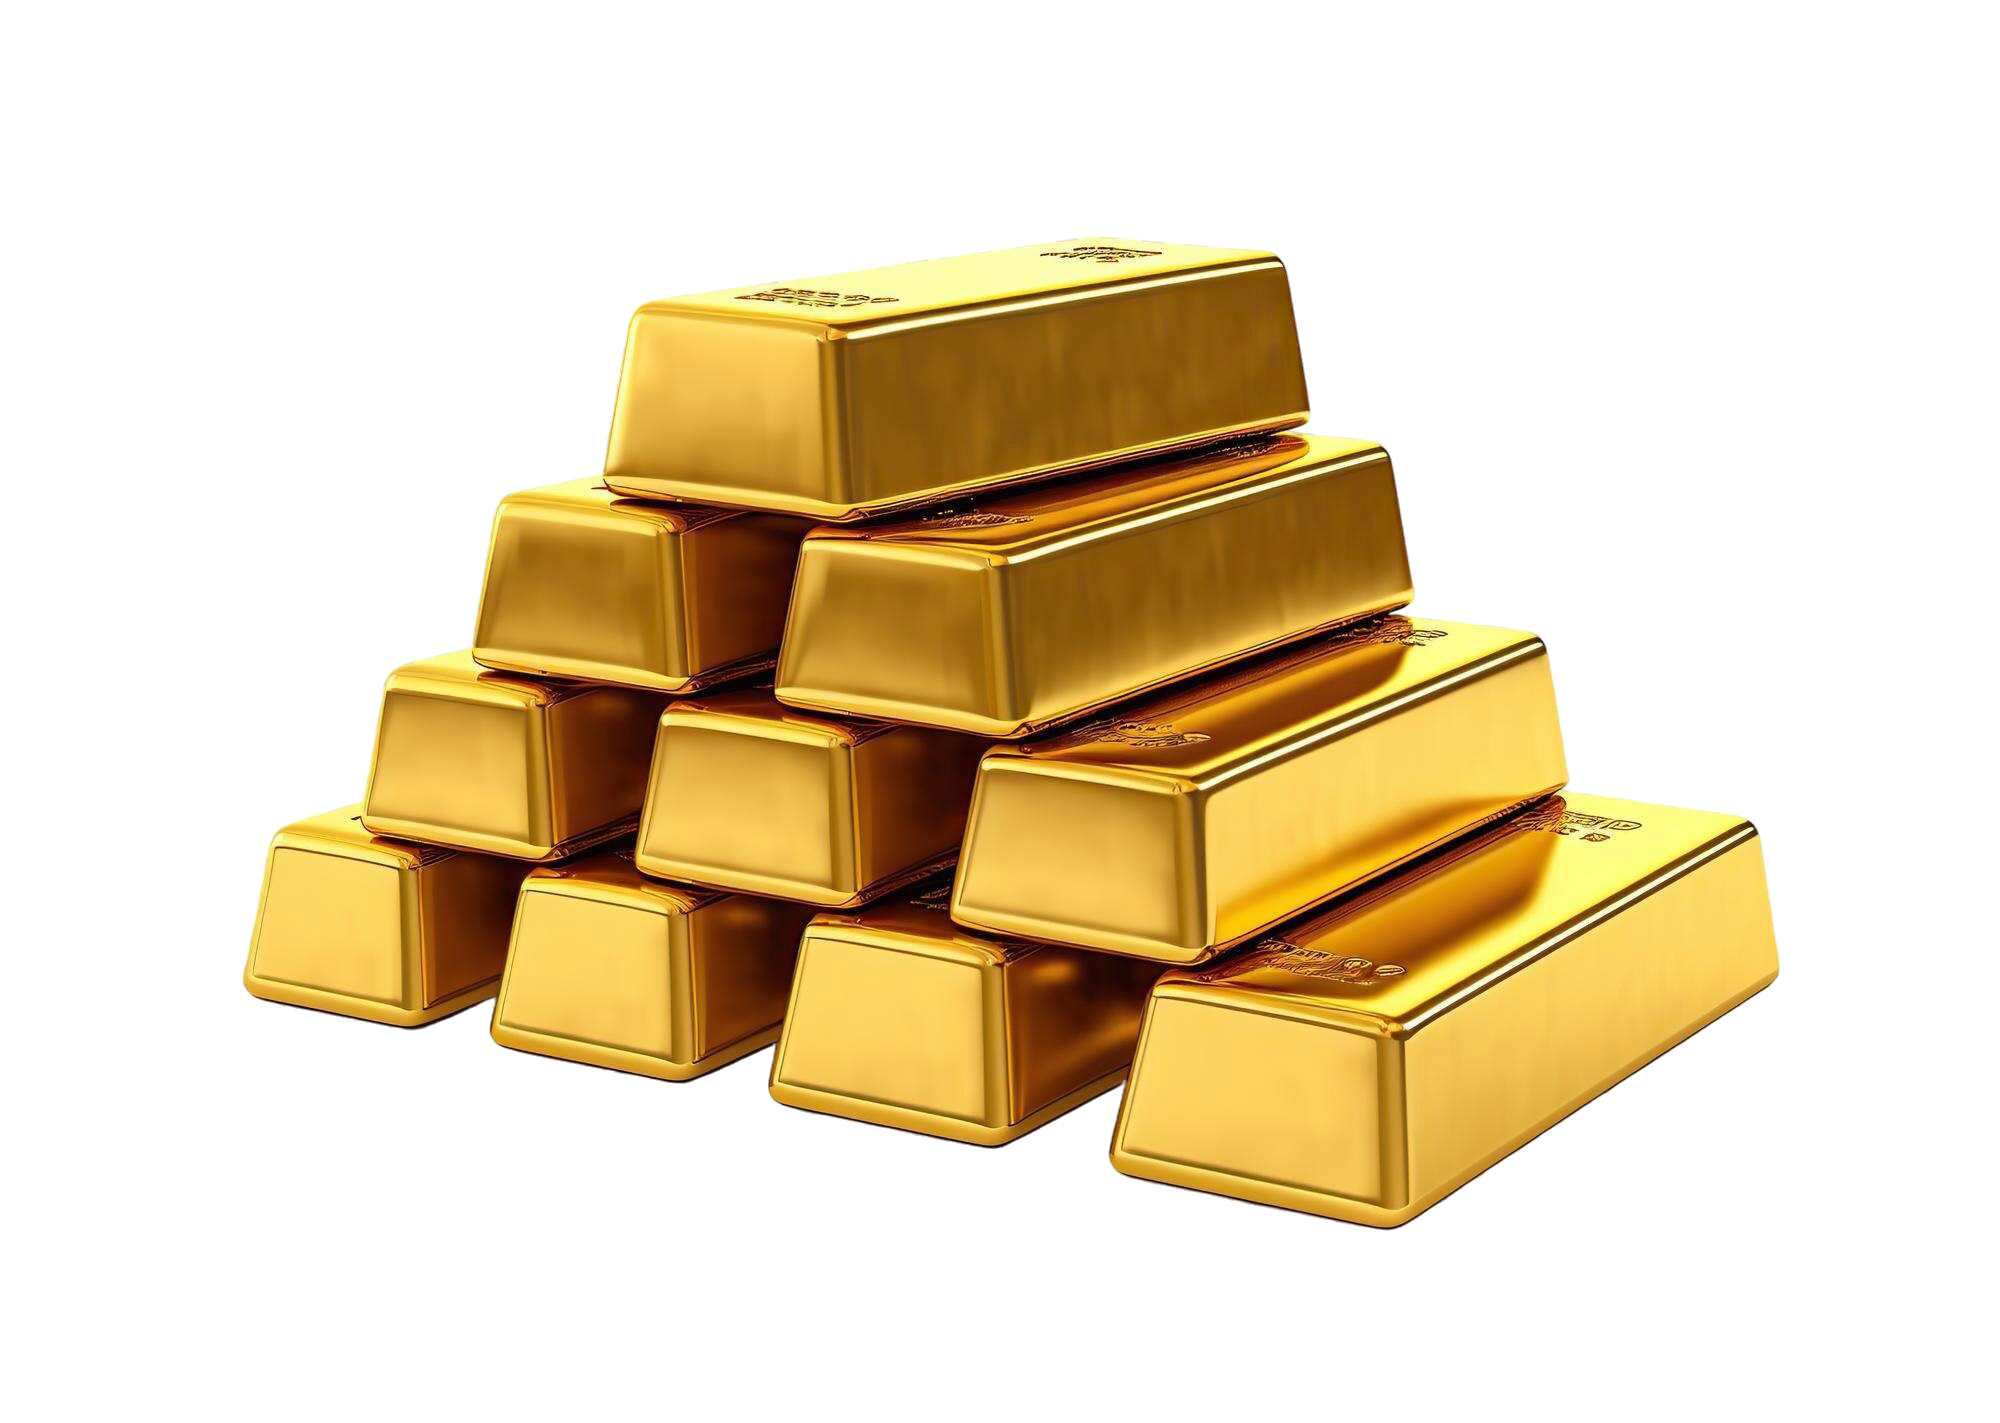
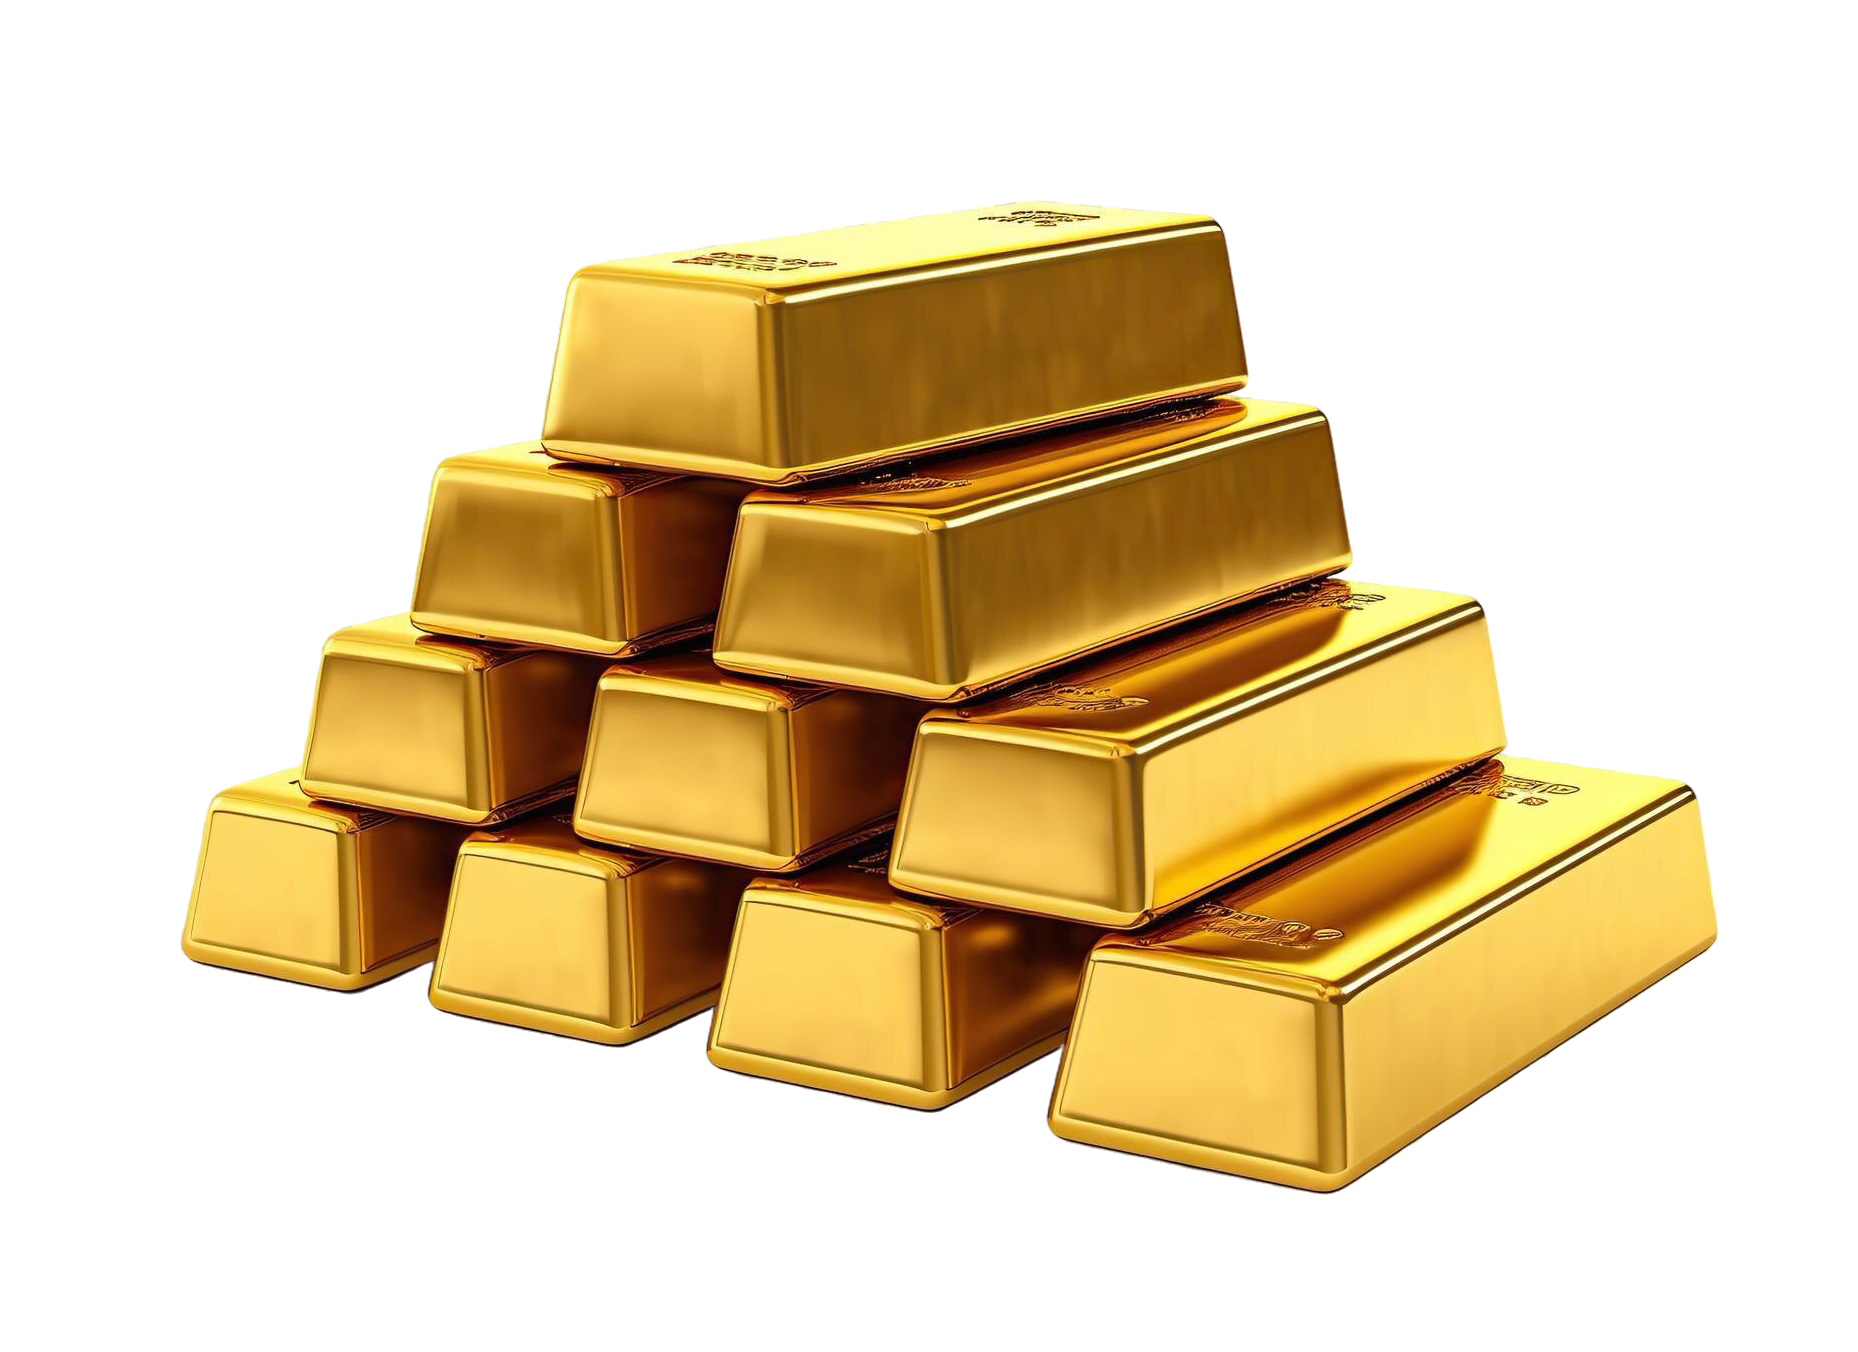
feat: update AboutSection with read more image

Changed region(s): [[0.0936, 0.1243, 0.9365, 0.9009]]

diff --git a/src/pages/Contact.jsx b/src/pages/Contact.jsx
@@ -1,5 +1,8 @@
 import ContactSection from '../components/ContactSection'
 
+const mapEmbedUrl =
+  'https://www.google.com/maps/embed?pb=!1m18!1m12!1m3!1d4734.498102929008!2d114.1746715!3d22.2981888!2m3!1f0!2f0!3f0!3m2!1i1024!2i768!4f13.1!3m3!1m2!1s0x340400ee1480419d%3A0x53c93486db514b9e!2s8%20Hart%20Ave%2C%20Tsim%20Sha%20Tsui%2C%20Hong%20Kong!5e1!3m2!1sen!2sae!4v1781270980621!5m2!1sen!2sae'
+
 function Contact() {
   return (
     <main style={{ backgroundColor: '#001935', color: '#fff' }}>
@@ -22,12 +25,44 @@ function Contact() {
       <ContactSection />
 
       <section style={{ padding: '0 clamp(1rem, 4vw, 1.5rem) 3rem' }}>
-        <div className="page-container" style={{ maxWidth: '1520px', margin: '0 auto', border: '1px solid rgba(201,168,76,0.25)', backgroundColor: 'rgba(16,31,72,0.35)', minHeight: '280px', display: 'flex', flexDirection: 'column', alignItems: 'center', justifyContent: 'center', textAlign: 'center', padding: '1.25rem' }}>
-          <i className="fas fa-map-location-dot" style={{ color: '#C9A84C', fontSize: '2rem' }} />
-          <h2 style={{ margin: '0.7rem 0 0', fontFamily: "'Cormorant Garamond', serif", fontSize: '2rem', fontWeight: 500 }}>Map Location</h2>
-          <p style={{ margin: '0.4rem 0 0', color: 'rgba(255,255,255,0.72)', fontFamily: "'Montserrat', sans-serif", fontSize: '0.86rem' }}>
-            Unit F, 26/F, 8 Hart Avenue, TST, Kowloon, Hong Kong
-          </p>
+        <div
+          className="page-container"
+          style={{
+            maxWidth: '1520px',
+            margin: '0 auto',
+            border: '1px solid rgba(201,168,76,0.25)',
+            backgroundColor: 'rgba(16,31,72,0.35)',
+            padding: 'clamp(0.75rem, 2vw, 1rem)',
+            boxShadow: '0 28px 80px -56px rgba(209,165,80,0.45)',
+          }}
+        >
+          <div
+            style={{
+              position: 'relative',
+              width: '100%',
+              minHeight: 'clamp(320px, 46vw, 520px)',
+              overflow: 'hidden',
+              backgroundColor: '#071225',
+            }}
+          >
+            <iframe
+              src={mapEmbedUrl}
+              title="Freya Trading Hong Kong office map"
+              width="600"
+              height="450"
+              style={{
+                position: 'absolute',
+                inset: 0,
+                width: '100%',
+                height: '100%',
+                border: 0,
+                display: 'block',
+              }}
+              allowFullScreen
+              loading="lazy"
+              referrerPolicy="no-referrer-when-downgrade"
+            />
+          </div>
         </div>
       </section>
     </main>

diff --git a/src/pages/Collections.jsx b/src/pages/Collections.jsx
@@ -12,7 +12,7 @@ function Collections() {
         }}
       >
         <div className="page-container" style={{ maxWidth: '1520px', margin: '0 auto' }}>
-          <p style={{ margin: 0, fontFamily: "'Montserrat', sans-serif", color: '#C9A84C', letterSpacing: '0.2em', textTransform: 'uppercase', fontSize: '0.72rem' }}>Home · Collections</p>
+          <p style={{ margin: 0, fontFamily: "'Montserrat', sans-serif", color: '#C9A84C', letterSpacing: '0.2em', textTransform: 'uppercase', fontSize: '0.72rem' }}>Home · Product Range</p>
           <h1 style={{ margin: '0.8rem 0 0', fontFamily: "'Cormorant Garamond', serif", fontSize: 'clamp(2.8rem, 5vw, 4.8rem)', fontWeight: 500, lineHeight: 1 }}>
             Our Collections
           </h1>
